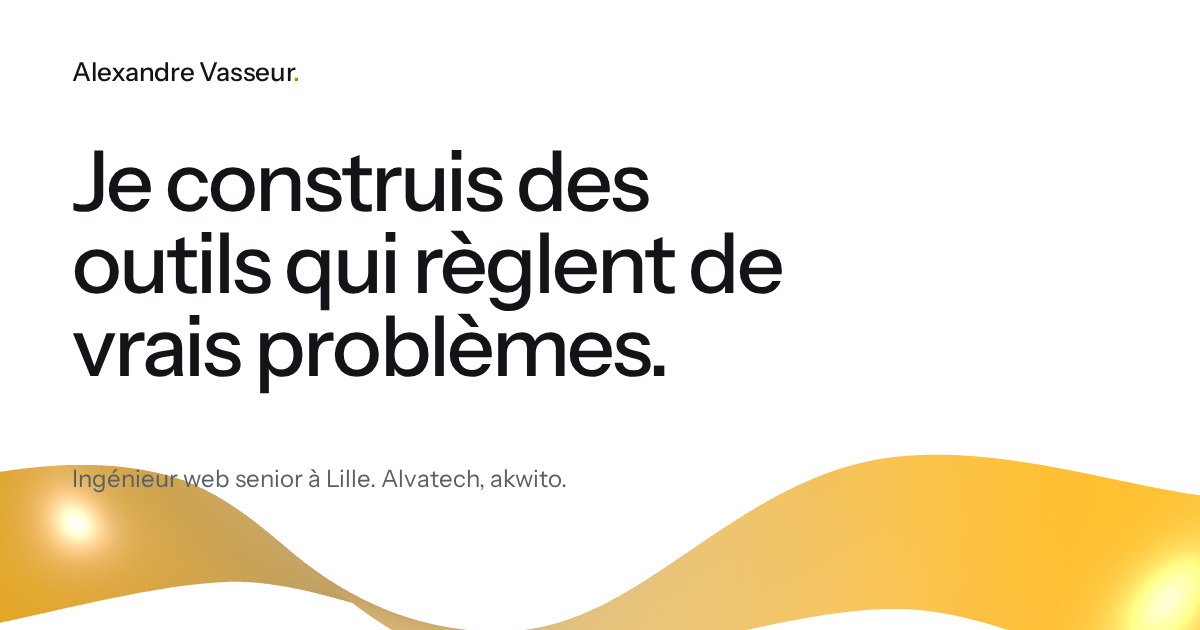
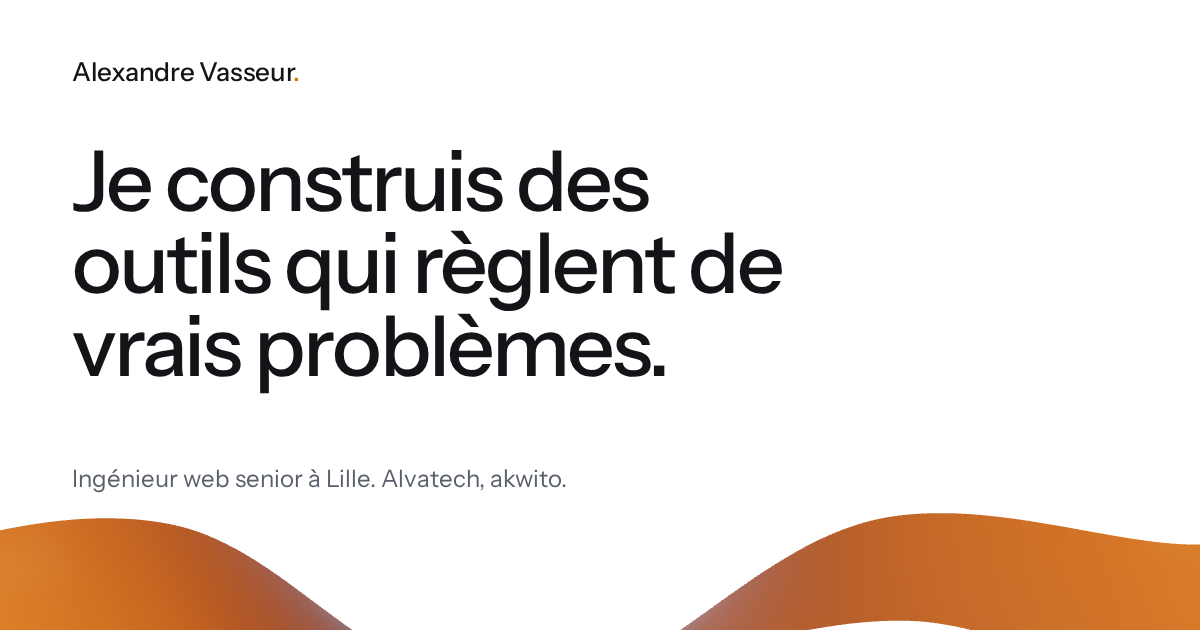
feat(hero): ruban satiné à la couleur Alvatech, photo LinkedIn, sweeek en texte
Même matière que sur alvatech.fr : ambre du logo sur les faces éclairées,
ombres ambre foncé, vernis et reflets, mappage tonal ACES. Photo de profil
remplacée par celle de LinkedIn, logo sweeek remplacé par le nom en texte
dans le hero et le parcours. Image de partage régénérée.

Claude-Session: https://claude.ai/code/session_01FL63kMSJgoybxKGzc7XoMd

Changed region(s): [[0.4317, 0.7238, 1.0, 1.0], [0.0, 0.7238, 0.4008, 1.0]]

diff --git a/js/ribbon.js b/js/ribbon.js
@@ -13,18 +13,40 @@
   catch (e) { hero.classList.add('no-gl'); return; }
   renderer.setClearColor(0x000000, 0);
   renderer.outputEncoding = THREE.sRGBEncoding;
+  // Mappage tonal : les reflets blanchissent au lieu de saturer en orange.
+  renderer.toneMapping = THREE.ACESFilmicToneMapping; renderer.toneMappingExposure = 1.0;
 
   var scene = new THREE.Scene();
   var camera = new THREE.PerspectiveCamera(32, 1, 0.1, 100);
   camera.position.set(0, 0, 16);
 
-  scene.add(new THREE.AmbientLight(0xffffff, 0.55));
-  var key = new THREE.DirectionalLight(0xffffff, 0.6); key.position.set(-4, 6, 8); scene.add(key);
-  var warm = new THREE.DirectionalLight(0xffc98a, 0.35); warm.position.set(8, 2, 5); scene.add(warm);
-  var cool = new THREE.DirectionalLight(0xa9c4ff, 0.25); cool.position.set(-6, -5, 4); scene.add(cool);
+  // Lumière douce : la face tournée vers la lampe affiche l'ambre du logo (#D97706), le reste
+  // s'assombrit un peu ; un vernis léger ajoute les reflets. Pas de dégradé vers le jaune.
+  // Lumière ciel/sol : le dessus des plis est éclairé, le dessous s'assombrit vers le brun,
+  // c'est ce contraste qui fait lire la matière. Pas de lumière ambiante uniforme.
+  var sky = new THREE.HemisphereLight(0xffffff, 0x6b3300, 0.5); sky.position.set(0.3, 1, 0.5); scene.add(sky);
+  var key = new THREE.DirectionalLight(0xffffff, 0.45); key.position.set(-4, 6, 8); scene.add(key);
+  var warm = new THREE.DirectionalLight(0xffc98a, 0.2); warm.position.set(8, 2, 5); scene.add(warm);
+  // Lampe près de la caméra : le vernis la reflète en point chaud sur les bombés.
+  var gloss = new THREE.DirectionalLight(0xffffff, 0.35); gloss.position.set(2, 4, 14); scene.add(gloss);
 
-  var cA = new THREE.Color(0xf4b14a), cB = new THREE.Color(0xd97706), cC = new THREE.Color(0x8f4300), tmp = new THREE.Color();
-  var mat = new THREE.MeshPhysicalMaterial({ vertexColors: true, metalness: 0.1, roughness: 0.32, clearcoat: 0.6, clearcoatRoughness: 0.25, side: THREE.DoubleSide });
+  // Reflets continus du vernis : petit studio (fond sombre, deux boîtes à lumière chaudes) converti
+  // une fois en carte d'environnement. Sans lui, le vernis ne reflète que les lampes, par éclairs.
+  function studio() {
+    var env = new THREE.Scene(); env.background = new THREE.Color(0x1a1d22);
+    var white = new THREE.MeshBasicMaterial({ color: 0xffe2bc, side: THREE.DoubleSide });
+    var top = new THREE.Mesh(new THREE.PlaneGeometry(18, 2.5), white); top.position.set(0, 9, 5); top.lookAt(0, 0, 0); env.add(top);
+    var side = new THREE.Mesh(new THREE.PlaneGeometry(2.5, 12), white); side.position.set(-10, 1, 6); side.lookAt(0, 0, 0); env.add(side);
+    var pm = new THREE.PMREMGenerator(renderer), tex = pm.fromScene(env, 0.04).texture; pm.dispose(); return tex;
+  }
+  var envTex = studio();
+  function satin(hex) {
+    return new THREE.MeshPhysicalMaterial({ color: new THREE.Color(hex).convertSRGBToLinear(), metalness: 0, roughness: 0.3,
+      clearcoat: 1, clearcoatRoughness: 0.1, envMap: envTex, envMapIntensity: 0.35, vertexColors: true, side: THREE.DoubleSide });
+  }
+  // Base un peu plus foncée que l'ambre du logo : après éclairage et mappage tonal, la face
+  // éclairée ressort à #D97706 (mesuré sur capture), les ombres vers #9A4D00.
+  var amber = satin(0xd06a00);
   var v = new THREE.Vector3(), off = new THREE.Vector3();
   // Repères le long de la courbe par transport parallèle depuis une normale de référence fixe :
   // les repères de Frenet de three.js choisissent leur normale initiale selon la tangente et
@@ -39,7 +61,7 @@
       fB[i].crossVectors(tg, fN[i]);
     }
   }
-  function ribbon(points, width, phase, twist) {
+  function ribbon(points, width, phase, twist, mat) {
     var N = 260, W = 12;
     var base = points.map(function (p) { return new THREE.Vector3(p[0], p[1], p[2]); });
     var pts = base.map(function (q) { return q.clone(); });
@@ -53,26 +75,27 @@
     scene.add(new THREE.Mesh(geo, mat));
     return function (t) {
       for (var k = 0; k < pts.length; k++) {
-        pts[k].x = base[k].x + Math.sin(t * 0.22 + k * 1.7 + phase) * 0.5;
-        pts[k].y = base[k].y + Math.sin(t * 0.32 + k * 1.1 + phase) * 0.7;
-        pts[k].z = base[k].z + Math.cos(t * 0.26 + k * 0.9 + phase) * 0.8;
+        pts[k].x = base[k].x + Math.sin(t * 0.2 + k * 1.7 + phase) * 0.4;
+        pts[k].y = base[k].y + Math.sin(t * 0.28 + k * 1.1 + phase) * 0.5;
+        pts[k].z = base[k].z + Math.cos(t * 0.24 + k * 0.9 + phase) * 0.6;
       }
       curve.needsUpdate = true;
       frames(curve, N);
       for (var i = 0; i <= N; i++) {
         var u = i / N;
         curve.getPointAt(u, v);
-        var tw = u * Math.PI * twist + t * 0.3 + phase;
+        var tw = u * Math.PI * twist + t * 0.22 + phase;
         var n = fN[i], bn = fB[i];
         var cs = Math.cos(tw), sn = Math.sin(tw);
-        var shade = 0.5 + 0.5 * Math.sin(u * Math.PI * 3 + t * 0.2 + phase);
-        tmp.copy(cA).lerp(cB, shade).lerp(cC, Math.max(0, Math.sin(tw)) * 0.6);
+        // Bandes d'ombre liées à la torsion : la face qui se détourne s'assombrit, la face qui
+        // revient reprend la couleur pleine. C'est ce qui donne le rendu métallique.
+        var f = 0.55 + 0.45 * (0.5 + 0.5 * cs);
         for (var j = 0; j <= W; j++) {
           var sgn = (j / W - 0.5) * width;
           off.set(n.x * cs + bn.x * sn, n.y * cs + bn.y * sn, n.z * cs + bn.z * sn).multiplyScalar(sgn);
           var o = (i * (W + 1) + j) * 3;
           pos[o] = v.x + off.x; pos[o + 1] = v.y + off.y; pos[o + 2] = v.z + off.z;
-          col[o] = tmp.r; col[o + 1] = tmp.g; col[o + 2] = tmp.b;
+          col[o] = f; col[o + 1] = f; col[o + 2] = f;
         }
       }
       geo.attributes.position.needsUpdate = true;
@@ -81,7 +104,7 @@
     };
   }
   var builders = [
-    ribbon([[-14, -4.2, -4], [-7, -3.0, -2], [-1, -3.6, 0.5], [4, -1.2, 1.8], [9, -2.4, 0.5], [14, -0.6, -3]], 2.6, 0.7, 1.4)
+    ribbon([[-14, -4.2, -4], [-7, -3.0, -2], [-1, -3.6, 0.5], [4, -1.2, 1.8], [9, -2.4, 0.5], [14, -0.6, -3]], 2.6, 0.7, 1.3, amber)
   ];
   function build(t) { for (var i = 0; i < builders.length; i++) builders[i](t); }
 

diff --git a/index.html b/index.html
@@ -78,7 +78,7 @@
     <h1>Je construis des outils qui règlent de vrais problèmes.</h1>
     <div class="intro">
       <img src="img/avatar.webp" alt="" width="480" height="360">
-      <p>Ingénieur web senior chez <img class="co" src="img/sweeek.svg" alt="sweeek" width="1166" height="237"> à Lille, j'ai toujours quelques projets en dehors. Deux sont en production : <a href="https://alvatech.fr">Alvatech</a> et <a href="https://akwito.eu">akwito</a>.</p>
+      <p>Ingénieur web senior chez <a href="https://sweeek.fr">sweeek</a> à Lille, j'ai toujours quelques projets en dehors. Deux sont en production : <a href="https://alvatech.fr">Alvatech</a> et <a href="https://akwito.eu">akwito</a>.</p>
     </div>
     <div class="links">
       <a class="link" href="#projets">Voir mes projets</a>
@@ -132,7 +132,7 @@
       <ol class="cv">
         <li>
           <span class="yr">Depuis 2026</span>
-          <div><h3>Ingénieur web senior</h3><p class="org"><img class="co" src="img/sweeek.svg" alt="sweeek" width="1166" height="237">, Wambrechies</p></div>
+          <div><h3>Ingénieur web senior</h3><p class="org">sweeek, Wambrechies</p></div>
           <p>sweeek, anciennement Alice's Garden, vend du mobilier de jardin et de maison en ligne dans toute l'Europe.</p>
         </li>
         <li>

diff --git a/css/site.css b/css/site.css
@@ -45,7 +45,6 @@ h1, h2, h3 { font-weight: 500; letter-spacing: -0.03em; text-wrap: balance; }
 .intro img { width: 64px; height: 64px; border-radius: 50%; object-fit: cover; object-position: 50% 30%; }
 .intro p { font-size: clamp(17px, 1.6vw, 21px); color: var(--ink-2); }
 .intro p a { color: var(--ink); text-decoration: none; }
-.intro .co { display: inline-block; height: 0.72em; width: auto; vertical-align: -0.02em; margin: 0 0.08em; }
 @media (max-width: 720px) { .intro { gap: 14px; } .intro img { width: 48px; height: 48px; } }
 
 /* ——— Lien d'action ——— */
@@ -86,7 +85,6 @@ h1, h2, h3 { font-weight: 500; letter-spacing: -0.03em; text-wrap: balance; }
 .cv .yr { color: var(--ink-2); font-variant-numeric: tabular-nums; }
 .cv h3 { font-size: 20px; letter-spacing: -0.015em; line-height: 1.25; }
 .cv .org { color: var(--ink-2); }
-.cv .org .co { display: inline-block; height: 0.78em; width: auto; vertical-align: -0.04em; }
 .cv p { color: var(--ink-2); }
 
 /* ——— Outils, archive ——— */

diff --git a/docs/og.html b/docs/og.html
@@ -11,7 +11,7 @@
 @font-face{font-family:'Instrument Sans';font-weight:400 700;src:url('../fonts/instrument-sans-latin-wght.woff2') format('woff2')}
 html,body{margin:0;width:1200px;height:630px;overflow:hidden}
 body{position:relative;background:#FFFFFF;color:#121417;font-family:'Instrument Sans',sans-serif}
-.hero{position:absolute;left:-120px;top:30px;width:1440px;height:630px}
+.hero{position:absolute;left:-120px;top:80px;width:1440px;height:630px}
 canvas{position:absolute;inset:0;width:100%;height:100%}
 .brand{position:absolute;left:72px;top:56px;font-size:26px;font-weight:500;letter-spacing:-.01em}
 .brand::after{content:'.';color:#D97706}
